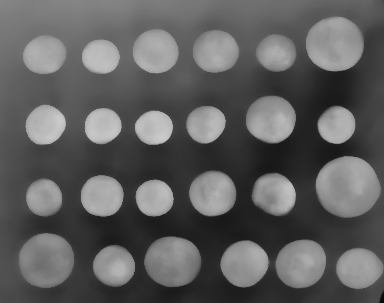
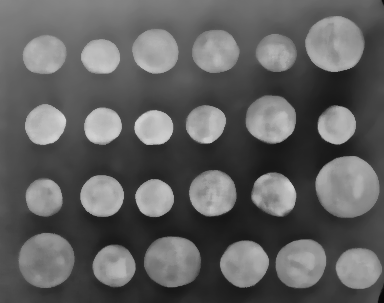
Erozja

diff --git a/script1.py b/script1.py
@@ -7,8 +7,7 @@ io.imsave('figures/image.png', image)
 noisedImage = util.random_noise(image, mode = 's&p')
 io.imsave('figures/noisedImage.png', noisedImage)
 
-selem = morphology.disk(8)
-
+selem = morphology.disk(5)
 gau = filters.gaussian(noisedImage, sigma = .5)
 io.imsave('figures/gau.png', gau)
 
@@ -18,11 +17,10 @@ io.imsave('figures/med.png', med)
 sob = filters.sobel(image)
 io.imsave('figures/sob.png', sob)
 
+selem = morphology.disk(5)
 dil = morphology.dilation(sob, selem)
 io.imsave('figures/dil.png', dil)
 
-binary = dil > .5
-io.imsave('figures/binary.png', binary)
-
-io.imshow(dil)
-io.show()
+selem = morphology.disk(5)
+ero = morphology.erosion(dil, selem)
+io.imsave('figures/ero.png', ero)

diff --git a/README.md b/README.md
@@ -11,8 +11,6 @@ from skimage import data, io, filters, util, morphology
 
 Baza danych
 
-http://scikit-image.org/docs/dev/api/skimage.data.html
-
 ```python
 image = data.coins()
 ```
@@ -41,19 +39,21 @@ io.imsave('foo.png', image)
 
 ## Filtrowanie
 
-Wczytujemy obraz, ograniczamy go tylko do kanału zielonego i dodajemy szum.
+Wczytujemy obraz
 
 ```
 image = data.coins()
 ```
 
-![](figures/image.png)
+![](figures/image.PNG)
+
+i dodajemy szum typu pieprz i sól.
 
 ```
 noisedImage = util.random_noise(image, mode = 's&p')
 ```
 
-![](figures/noisedImage.png)
+![](figures/noisedImage.PNG)
 
 
 Filtr gaussowski
@@ -62,7 +62,7 @@ Filtr gaussowski
 gau = filters.gaussian(image, sigma = .5)
 ```
 
-![](figures/gau.png)
+![](figures/gau.PNG)
 
 Filtr medianowy Tworzymy element strukturalny
 
@@ -71,7 +71,7 @@ selem = morphology.disk(5)
 med = filters.median(image, selem)
 ```
 
-![](figures/med.png)
+![](figures/med.PNG)
 
 ## Wykrywanie krawędzi
 
@@ -79,12 +79,12 @@ med = filters.median(image, selem)
 sob = filters.sobel(med)
 ```
 
-![](figures/sob.png)
+![](figures/sob.PNG)
 
 ## Dylatacja
 
-![](figures/dil.png)
+![](figures/dil.PNG)
 
-## Tresholding
+## Erozja
 
-![](figures/binary.png)
+![](figures/ero.png)
